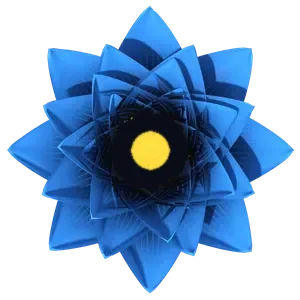
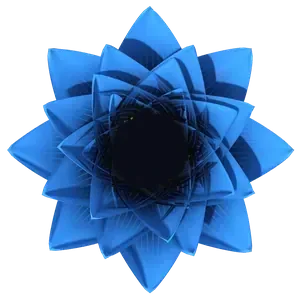
Lotus: flor menor, luz branca no mesmo centro da flor e ondas sonoras no lugar do círculo do miolo
- Tira o círculo dourado do miolo (quadros padrão) e põe ondas sonoras douradas em círculo
  que vão para dentro e para fora, sempre dentro do espaço escuro do miolo
- Flor um pouco menor (206 -> 184)
- Luz, raios e flor no mesmo quadro com o mesmo centro; a luz acompanha a flor quando ela sobe

Claude-Session: https://claude.ai/code/session_01XJ8bKKm3arNhAerQKpBbQ5

Changed region(s): [[0.42, 0.42, 0.57, 0.57]]

diff --git a/src/components/LotusFlower.js b/src/components/LotusFlower.js
@@ -4,45 +4,45 @@ import FRAMES, { FAB, LIGHT } from './lotus/frames';
 
 // Flor de lótus da Lotus em 3D (quadros em assets/lotus, gerados por tools/lotus3d).
 
-const SIZE = 206; // a flor é vista de frente (de cima), formando um círculo no centro da caixa
-const STAGE = 250; // faixa da caixa onde a flor fica, sempre centralizada
-const HALO = Math.round(SIZE * 1.6); // luz branca atrás da flor
-const RAYS = Math.round(SIZE * 1.95); // raios de luz que giram devagar
+const SIZE = 184; // a flor é vista de frente (de cima), formando um círculo no centro da caixa
+const STAGE = 240; // faixa da caixa onde a flor fica, sempre centralizada
+const HALO = Math.round(SIZE * 1.75); // luz branca atrás da flor
+const RAYS = Math.round(SIZE * 2.1); // raios de luz que giram devagar
 // Ajuste fino da posição na caixa (no celular ela aparecia um pouco à direita e para baixo).
 const NUDGE_X = -8;
 const NUDGE_Y = -14;
-// Ondas sonoras douradas em volta do miolo (no lugar dos antigos traços amarelos).
-const WAVE_N = 32;
-const WAVE_R0 = Math.round(SIZE * 0.083); // começa logo depois do círculo dourado
-const WAVE_L = Math.round(SIZE * 0.08); // comprimento máximo de cada barrinha
-const WAVE_W = 2.6;
+// Ondas sonoras douradas em círculo, no lugar do antigo círculo do miolo. Elas chacoalham para
+// dentro e para fora, sempre dentro do espaço escuro do miolo (nunca passam desse limite).
+const WAVE_N = 24;
+const WAVE_IN = SIZE * 0.035; // limite de dentro
+const WAVE_OUT = SIZE * 0.135; // limite de fora (borda do miolo escuro)
+const WAVE_L = Math.round(SIZE * 0.042); // comprimento de cada barrinha
+const WAVE_W = 2.4;
+const R_MIN = WAVE_IN + WAVE_L / 2; // centro da barrinha mais para dentro
+const R_MAX = WAVE_OUT - WAVE_L / 2; // centro da barrinha mais para fora
 
-// Ondas sonoras em círculo: cada barrinha cresce e encolhe com a voz (de quem fala ou da Lotus);
-// quieta, ondula de leve.
+// Cada barrinha vai e volta no raio (para dentro e para fora). As vizinhas seguem uma depois da
+// outra, formando uma onda que corre em volta do círculo; com voz o vaivém fica maior e mais rápido.
+const STEPS = 12;
+const T_IN = [...Array(STEPS + 1)].map((_, k) => k / STEPS);
 function SoundRing({ voice, active, show }) {
-  const w = useRef([0, 1, 2, 3].map(() => new Animated.Value(0))).current;
+  const t = useRef(new Animated.Value(0)).current;
   useEffect(() => {
-    const loops = w.map((v, i) =>
-      Animated.loop(
-        Animated.sequence([
-          Animated.timing(v, { toValue: 1, duration: (active ? 260 : 900) + i * 90, easing: Easing.inOut(Easing.sin), useNativeDriver: true }),
-          Animated.timing(v, { toValue: 0, duration: (active ? 260 : 900) + i * 90, easing: Easing.inOut(Easing.sin), useNativeDriver: true }),
-        ]),
-      ),
-    );
-    loops.forEach((l) => l.start());
-    return () => loops.forEach((l) => l.stop());
+    t.setValue(0);
+    const loop = Animated.loop(Animated.timing(t, { toValue: 1, duration: active ? 700 : 2600, easing: Easing.linear, useNativeDriver: true }));
+    loop.start();
+    return () => loop.stop();
   }, [active]);
+  // Força do vaivém: pequena em silêncio, máxima com voz forte.
+  const amp = voice.interpolate({ inputRange: [0, 1], outputRange: [0.35, 1], extrapolate: 'clamp' });
   const bars = useMemo(
     () =>
       [...Array(WAVE_N)].map((_, i) => {
-        // desenho de onda: altos e baixos alternados em volta do círculo
-        const shape = 0.45 + 0.55 * Math.abs(Math.sin((i * Math.PI * 3) / WAVE_N + 0.4));
-        const s = Animated.add(
-          w[i % 4].interpolate({ inputRange: [0, 1], outputRange: [0.18 + 0.12 * shape, 0.3 + 0.25 * shape] }),
-          voice.interpolate({ inputRange: [0, 1], outputRange: [0, 0.75 * shape], extrapolate: 'clamp' }),
-        ).interpolate({ inputRange: [0, 1], outputRange: [0, 1], extrapolate: 'clamp' });
-        return { deg: `${(i * 360) / WAVE_N}deg`, s, ty: s.interpolate({ inputRange: [0, 1], outputRange: [WAVE_L / 2, 0] }) };
+        const phase = (i * 3) / WAVE_N; // 3 cristas de onda em volta do círculo
+        const osc = t.interpolate({ inputRange: T_IN, outputRange: T_IN.map((k) => Math.sin(2 * Math.PI * (k + phase))) });
+        const pos = Animated.add(0.5, Animated.multiply(osc, Animated.multiply(amp, 0.5)));
+        const r = pos.interpolate({ inputRange: [0, 1], outputRange: [R_MIN, R_MAX], extrapolate: 'clamp' });
+        return { deg: `${(i * 360) / WAVE_N}deg`, ty: Animated.multiply(r, -1) };
       }),
     [],
   );
@@ -50,7 +50,7 @@ function SoundRing({ voice, active, show }) {
     <View pointerEvents="none" style={[StyleSheet.absoluteFill, { opacity: show ? 1 : 0 }]}>
       {bars.map((b, i) => (
         <View key={i} style={[StyleSheet.absoluteFill, { transform: [{ rotate: b.deg }] }]}>
-          <Animated.View style={[styles.wave, { transform: [{ translateY: b.ty }, { scaleY: b.s }] }]} />
+          <Animated.View style={[styles.wave, { transform: [{ translateY: b.ty }] }]} />
         </View>
       ))}
     </View>
@@ -242,14 +242,14 @@ export default function LotusFlower({ phase, level, onPress, visible = true, moo
           fadeDuration={0}
           resizeMode="contain"
           pointerEvents="none"
-          style={[styles.rays, { opacity: raysOpacity, transform: [{ rotate: raysRotate }, { scale: haloScale }] }]}
+          style={[styles.rays, { opacity: raysOpacity, transform: [{ translateY: lift }, { rotate: raysRotate }, { scale: haloScale }] }]}
         />
         <Animated.Image
           source={LIGHT.halo}
           fadeDuration={0}
           resizeMode="contain"
           pointerEvents="none"
-          style={[styles.halo, { opacity: haloOpacity, transform: [{ scale: haloScale }] }]}
+          style={[styles.halo, { opacity: haloOpacity, transform: [{ translateY: lift }, { scale: haloScale }] }]}
         />
         <Pressable onPress={onPress} accessibilityLabel="Falar com a Lotus" style={styles.wrap}>
           <Animated.View style={[styles.flower, { transform: [{ translateY: lift }, { rotate }, { scale: flowerScale }] }]}>
@@ -354,11 +354,12 @@ const styles = StyleSheet.create({
   micFlower: { position: 'absolute', width: 50, height: 50 },
   // Faixa da largura inteira da caixa; a flor fica no meio exato, na horizontal e na vertical.
   stage: { alignSelf: 'stretch', height: STAGE, alignItems: 'center', justifyContent: 'center' },
-  center: { width: SIZE, height: SIZE, alignItems: 'center', justifyContent: 'center', transform: [{ translateX: NUDGE_X }, { translateY: NUDGE_Y }] },
-  wave: { position: 'absolute', left: SIZE / 2 - WAVE_W / 2, top: SIZE / 2 - WAVE_R0 - WAVE_L, width: WAVE_W, height: WAVE_L, borderRadius: WAVE_W / 2, backgroundColor: '#FFC928' },
+  // Luz, raios e flor ficam todos no mesmo quadro, com o mesmo centro exato.
+  center: { width: SIZE, height: SIZE, transform: [{ translateX: NUDGE_X }, { translateY: NUDGE_Y }] },
+  wave: { position: 'absolute', left: SIZE / 2 - WAVE_W / 2, top: SIZE / 2 - WAVE_L / 2, width: WAVE_W, height: WAVE_L, borderRadius: WAVE_W / 2, backgroundColor: '#FFC928' },
   halo: { position: 'absolute', width: HALO, height: HALO, left: (SIZE - HALO) / 2, top: (SIZE - HALO) / 2 },
   rays: { position: 'absolute', width: RAYS, height: RAYS, left: (SIZE - RAYS) / 2, top: (SIZE - RAYS) / 2 },
-  wrap: { width: SIZE, height: SIZE },
+  wrap: { position: 'absolute', left: 0, top: 0, width: SIZE, height: SIZE },
   flower: { position: 'absolute', left: 0, top: 0, width: SIZE, height: SIZE },
   pollen: { position: 'absolute', top: SIZE / 2 - 2, width: 4, height: 4, borderRadius: 2, backgroundColor: '#FDE68A' },
 });

diff --git a/tools/lotus3d/vivid.py b/tools/lotus3d/vivid.py
@@ -63,6 +63,24 @@ def clear_stamens(im, bars=False):
     return out
 
 
+def clear_disk(im):
+    """Tira o círculo dourado do miolo: o centro fica escuro, liso, e o app desenha ali ondas
+    sonoras douradas em círculo, que se mexem para dentro e para fora com a voz."""
+    im = im.convert('RGBA')
+    a = np.asarray(im).astype(np.float32)
+    W = im.width
+    k = W / 300
+    yy, xx = np.mgrid[0:im.height, 0:W]
+    d = np.hypot(xx - W / 2, yy - im.height / 2)
+    r, g, b = a[..., 0], a[..., 1], a[..., 2]
+    m = (r - b > 35) & (g > 60) & (d < 30 * k)
+    mi = Image.fromarray((m * 255).astype(np.uint8)).filter(ImageFilter.MaxFilter(7)).filter(ImageFilter.GaussianBlur(1.5 * k))
+    mm = np.asarray(mi).astype(np.float32)[..., None] / 255
+    dark = np.array([10, 13, 24], np.float32)
+    a[..., :3] = a[..., :3] * (1 - mm) + dark * mm
+    return Image.fromarray(np.clip(a, 0, 255).astype(np.uint8), 'RGBA')
+
+
 def halo(path, size=600):
     # luz branca suave atrás da flor (um "sol" difuso)
     y, x = np.mgrid[0:size, 0:size] / (size - 1) * 2 - 1

diff --git a/tools/lotus3d/render.py b/tools/lotus3d/render.py
@@ -3,7 +3,7 @@
 import base64, io, json, os
 from PIL import Image
 from playwright.sync_api import sync_playwright
-from vivid import vivid_gold, clear_stamens, halo, rays
+from vivid import vivid_gold, clear_stamens, clear_disk, halo, rays
 HERE = os.path.dirname(os.path.abspath(__file__))
 OUT = os.path.join(HERE, '..', '..', 'assets', 'lotus')
 jobs = json.load(open(os.path.join(HERE, 'jobs.json')))
@@ -18,6 +18,9 @@ with sync_playwright() as p:
         # dourado do miolo mais vivo (flor padrão e botão flutuante)
         if name.startswith(('padrao_', 'fab_')):
             im = clear_stamens(vivid_gold(im), bars=name.startswith('fab_'))
+        # sem o círculo dourado no meio da flor padrão: no lugar dele o app desenha ondas sonoras
+        if name.startswith('padrao_'):
+            im = clear_disk(im)
         im.save(os.path.join(OUT, name), 'WEBP', quality=78, method=6)
         print(name)
     b.close()
